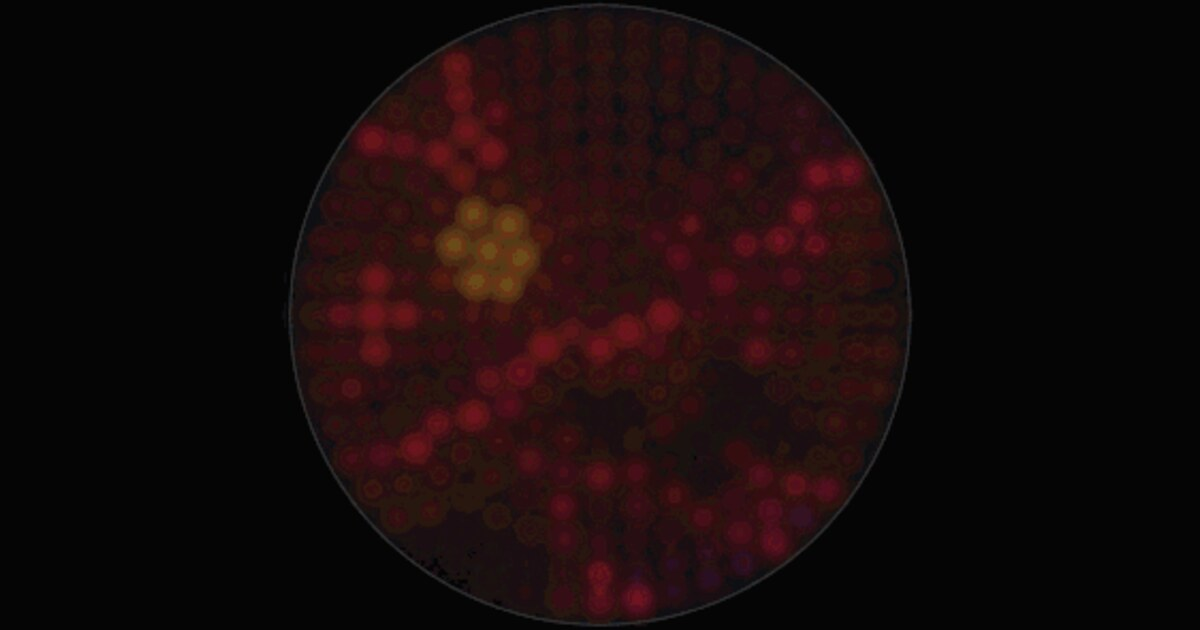
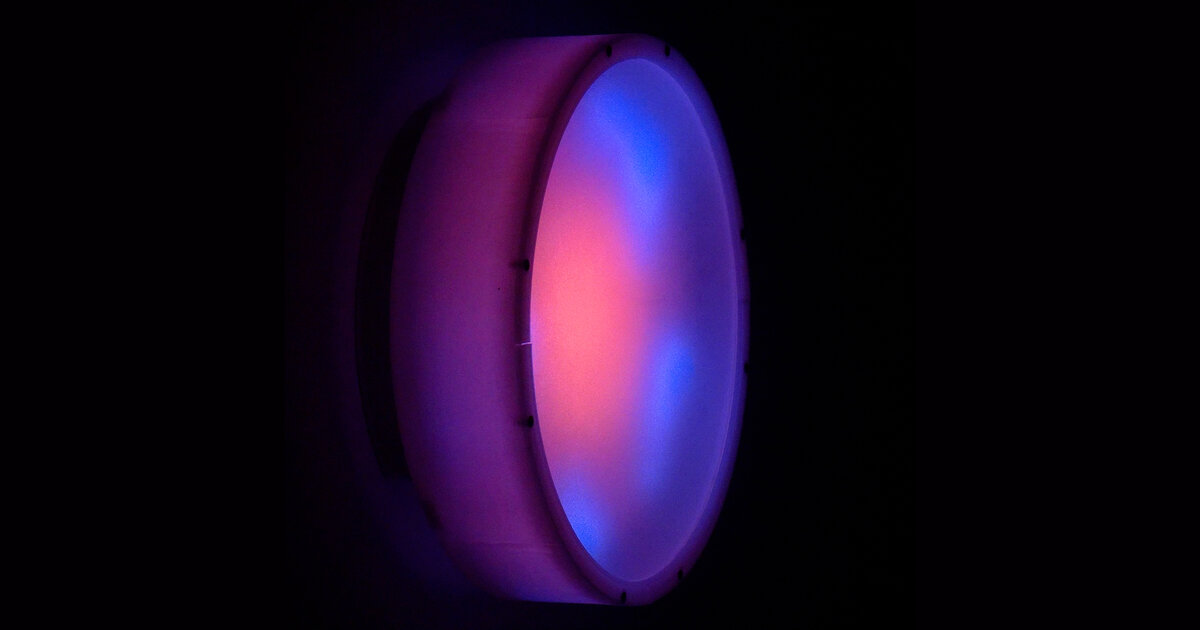
Estoa: installation photo, Process section from Dan's picks; homepage renamed (#70)
Replaces the clouds render (estoa.gif, old firmware) with Dan's still of the installed piece as the Estoa page's header image, homepage card and share image.

Replaces 'How I made it' with a Process section: Dan's 39 picked photos, renders and one clip, in the order they were taken, in seven stages, captioned from his own notes and fact-checked against the build journals and his prompts. All new media is on R2 under estoa/process/.

Renames the homepage heading, tab title and meta description to "Dan Oved's portfolio" (apostrophe escaped in JSX text; the raw one failed ESLint on Netlify), and removes the homepage description until Dan writes a new one.

diff --git a/src/pages/portfolio/estoa/media.ts b/src/pages/portfolio/estoa/media.ts
@@ -15,7 +15,7 @@ const clip = (name: string, title: string, duration: string): Clip => ({
   src: mediaUrl(`estoa/${name}-v1.mp4`),
   title,
   duration,
-  previewImage: mediaUrl(`estoa/previews/${name}-first-frame-v1.avif`),
+  previewImage: mediaUrl(`estoa/previews/${name.split('/').pop()}-first-frame-v1.avif`),
   aspect: 'portrait',
 });
 
@@ -70,4 +70,50 @@ export const clips = {
   seaGrass: clip('sea-grass', 'Sea grass on the real disk', '0:08'),
   slowSwirl: clip('slow-swirl', 'A slow swirl inside the finished front', '0:12'),
   benchOct2: clip('bench-oct-2', 'Early patterns on the bench, October 2', '0:13'),
+};
+
+// Dan's process picks (2026-10-07), on R2 under estoa/process/.
+export const process = {
+  dsc02096: still('process/dsc02096-v1.jpg', 1600, 900),
+  dsc02117: still('process/dsc02117-v1.jpg', 1600, 900),
+  dsc02122: still('process/dsc02122-v1.jpg', 1600, 900),
+  dsc02128: still('process/dsc02128-v1.jpg', 1600, 900),
+  dsc02127: still('process/dsc02127-v1.jpg', 1600, 900),
+  dsc02138: still('process/dsc02138-v1.jpg', 1600, 900),
+  dsc02141: still('process/dsc02141-v1.jpg', 900, 1600),
+  dsc02145: still('process/dsc02145-v1.jpg', 1600, 900),
+  dsc02152: still('process/dsc02152-v1.jpg', 1600, 900),
+  dsc02160: still('process/dsc02160-v1.jpg', 1600, 900),
+  dsc02165: still('process/dsc02165-v1.jpg', 1600, 900),
+  dsc02181: still('process/dsc02181-v1.jpg', 1600, 900),
+  dsc02187: still('process/dsc02187-v1.jpg', 1600, 900),
+  dsc02190: still('process/dsc02190-v1.jpg', 1600, 900),
+  dsc02194: still('process/dsc02194-v1.jpg', 1600, 900),
+  dsc02198: still('process/dsc02198-v1.jpg', 1600, 900),
+  dsc02201: still('process/dsc02201-v1.jpg', 1600, 1187),
+  dsc02204: still('process/dsc02204-v1.jpg', 900, 1600),
+  img_4665: still('process/img_4665-v1.jpg', 1200, 1600),
+  img_4754: still('process/img_4754-v1.jpg', 1200, 1600),
+  img_4763: still('process/img_4763-v1.jpg', 1200, 1600),
+  img_4869: still('process/img_4869-v1.jpg', 1200, 1600),
+  img_4881: still('process/img_4881-v1.jpg', 1200, 1600),
+  img_4880: still('process/img_4880-v1.jpg', 1200, 1600),
+  img_4892: still('process/img_4892-v1.jpg', 1200, 1600),
+  img_4912: still('process/img_4912-v1.jpg', 1200, 1600),
+  img_4939: still('process/img_4939-v1.jpg', 1200, 1600),
+  img_4949: still('process/img_4949-v1.jpg', 1200, 1600),
+  img_4950: still('process/img_4950-v1.jpg', 1200, 1600),
+  img_4955: still('process/img_4955-v1.jpg', 1200, 1600),
+  assembly: still('process/assembly-v1.jpg', 1400, 1100),
+  back: still('process/back-v1.jpg', 1400, 1100),
+  exploded: still('process/exploded-v1.jpg', 1600, 769),
+  section: still('process/section-v1.jpg', 1400, 1100),
+  radar_in_place: still('process/radar_in_place-v1.jpg', 1400, 1100),
+  explode: still('process/explode-v1.webp', 760, 365),
+  img_4821: still('process/img_4821-v1.jpg', 1200, 1600),
+  img_4817: still('process/img_4817-v1.jpg', 1200, 1600),
+};
+
+export const processClips = {
+  firstFrostTest: clip('process/img_4913', 'First test with the frosting on', '0:09'),
 };

diff --git a/src/pages/index.tsx b/src/pages/index.tsx
@@ -39,8 +39,8 @@ const Index: NextPage<Props> = ({ portfolioItems }) => {
   return (
     <Layout>
       <Head>
-        <title>Creative Projects - Dan Oved</title>
-        <meta name="description" content="Dan Oved's Creative Projects" />
+        <title>Dan Oved&apos;s portfolio</title>
+        <meta name="description" content="Dan Oved's portfolio" />
       </Head>
       <Container>
         <header className="pb-7 pt-14 md:pb-9 md:pt-[88px]">
@@ -48,12 +48,8 @@ const Index: NextPage<Props> = ({ portfolioItems }) => {
             {projectsSummary(portfolioItems)}
           </p>
           <h1 className="max-w-[18ch] text-balance font-mono text-[length:clamp(2rem,6.4vw,4.25rem)] font-semibold leading-[1.02] tracking-[-0.04em] text-ink">
-            Dan Oved&apos;s Creative Projects
+            Dan Oved&apos;s portfolio
           </h1>
-          <p className="mt-[22px] max-w-[48ch] text-pretty text-base leading-[1.55] text-ink-2 md:text-[1.1875rem]">
-            Installations, instruments and performances built from light, sound and machine learning — and the
-            open-source tools I make along the way.
-          </p>
         </header>
         <Filters {...filters} projects={portfolioItems} shown={filteredProjects.length} />
         <PortfolioCards projects={filteredProjects} />

diff --git a/src/pages/portfolio/estoa/meta.ts b/src/pages/portfolio/estoa/meta.ts
@@ -9,7 +9,7 @@ export const meta: PortfolioItemMeta = {
   // First on the homepage: the gallery label's QR code points here.
   weight: -5,
   image: './images/og.jpg',
-  animatedImage: './images/estoa.gif',
+  animatedImage: './images/estoa-still.jpg',
   // The artist's wall text, word for word. Keep it as settled.
   summary: "Estoa is endless, like a social media feed, but it only gives you more when you're still.",
   role: Role.Artist,
